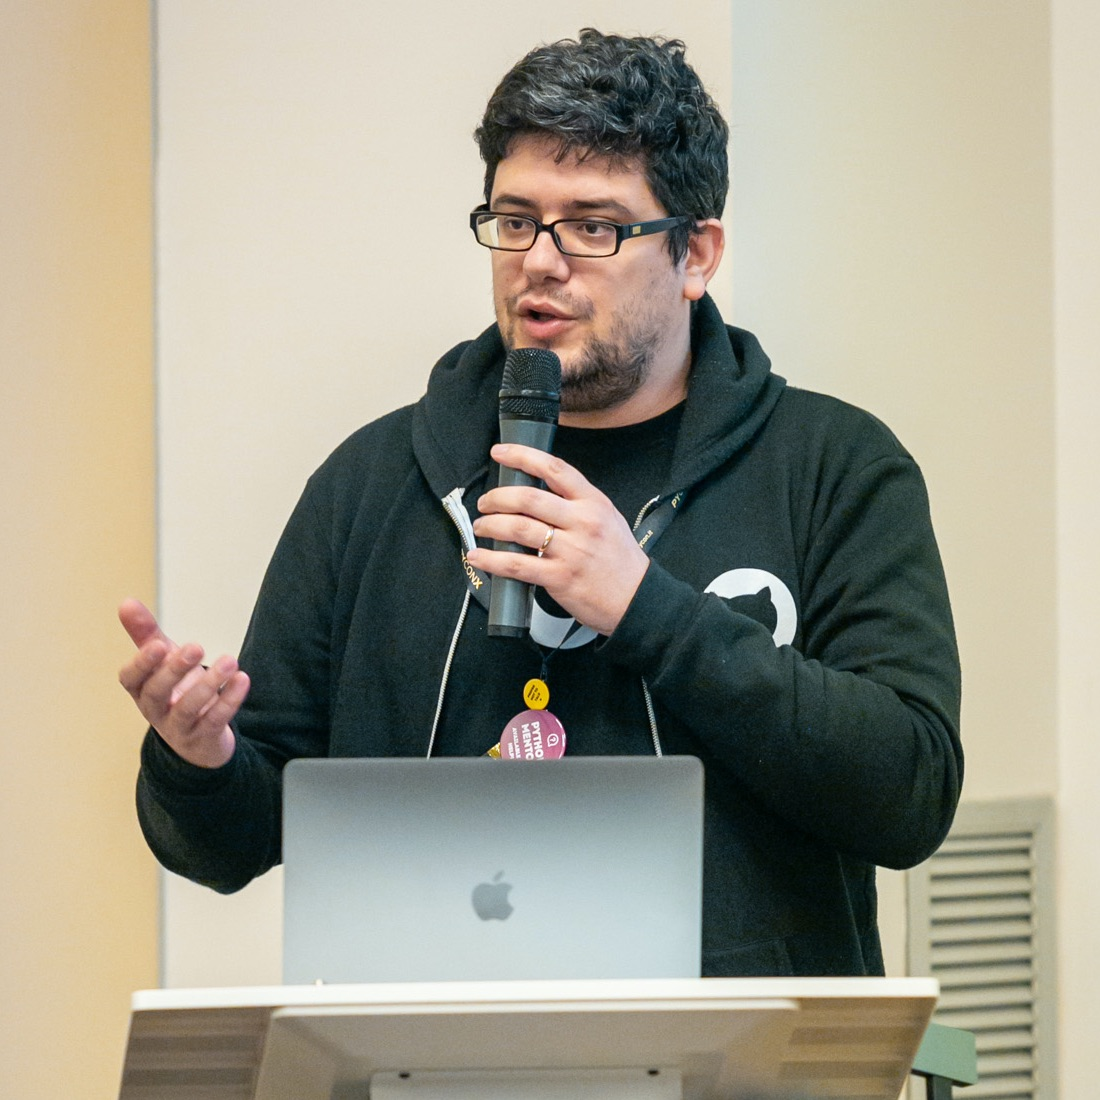
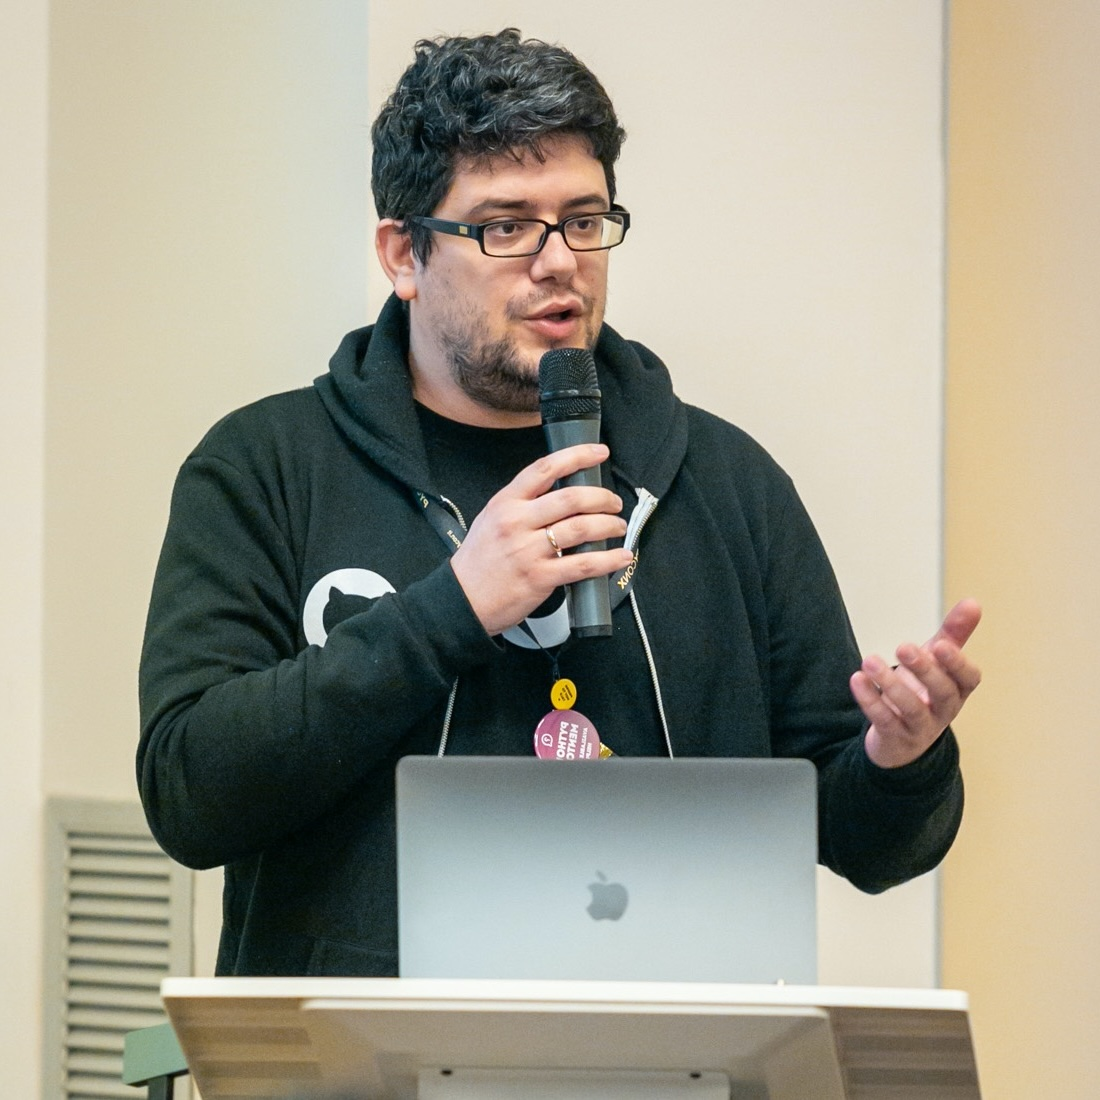
Circleci build (#5)
* Update CV
* Add CircleCI configuration
* Add Mastodon verification link
* Add missing cover images two a couple of posts
* Flip avatar

diff --git a/layouts/partials/footer/custom.html b/layouts/partials/footer/custom.html
@@ -1,0 +1,1 @@
+<link href="https://mastodon.social/@andreagrandi" rel="me">

diff --git a/content/cv/index.md b/content/cv/index.md
@@ -9,7 +9,7 @@ comments: false
 ### Profile
 
 -   Name: **Andrea Grandi**
--   Where I live: Pavia, Italy
+-   Where I live: Italy
 -   e-mail: **a.grandi** \[AT\] **gmail** \[dot\] **com**
 -   GitHub: <https://github.com/andreagrandi>
 -   LinkedIn: <https://uk.linkedin.com/in/andreagrandi>
@@ -24,7 +24,7 @@ Agile environment where Test Driven Development and Continuous
 Integration are the norm and where I can balance my work between writing
 code, pairing and mentoring junior developers.
 
-### **Current position:** Backend Software Engineer at LaterPay (remote)
+### **Current position:** Backend Software Engineer at Supertab (remote)
 
 ### Skills
 
@@ -38,8 +38,9 @@ code, pairing and mentoring junior developers.
 
 ### Professional Experience
 
-**January 2019 / present - Backend Software Engineer at LaterPay (remote):**
-I’m working as Python/Django backend developer for LaterPay, a company with a fully distributed and remote team.
+**January 2019 / present - Backend Software Engineer at Supertab (remote):**
+I’m working as Python/Django backend developer for Supertab (formerly known as LaterPay), 
+a company with a fully distributed and remote team.
 In my current role I have the opportunity to work on a backend service which uses Django, Django Rest Framework
 and it’s based on a PostgreSQL database.
 

diff --git a/content/posts/2023/1-how-to-use-openai-api-for-chatgpt-in-python/index.md b/content/posts/2023/1-how-to-use-openai-api-for-chatgpt-in-python/index.md
@@ -18,6 +18,7 @@ tags:
 slug: "how-to-use-openai-api-for-chatgpt-in-python"
 draft: false
 description: "How to use the OpenAI API for ChatGPT in Python"
+image: python-chatgpt.jpeg
 ---
 
 OpenAI is a research organization that develops and promotes friendly AI for the betterment of humanity. One of its most popular projects is the development of the GPT (Generative Pre-trained Transformer) series, which includes ChatGPT, a large language model trained to generate human-like text based on given prompts. In this blog post, we'll show you how to use the OpenAI API for ChatGPT with Python examples.

diff --git a/content/posts/2023/2-use-openai-api-to-make-two-gpt-bots-talk/index.md b/content/posts/2023/2-use-openai-api-to-make-two-gpt-bots-talk/index.md
@@ -18,6 +18,7 @@ tags:
 slug: "use-openai-api-to-make-two-gpt-bots-talk"
 draft: false
 description: "Use OpenAI API to make two GPT bots talk to each other"
+image: two-chatgpt-robots.jpeg
 ---
 
 I wanted to learn how to use OpenAI API in Python, so I decided to make it fun and created an interesting experiment: what would happen if I let two GPT powered bots "talk" to each other? Let's find out!
